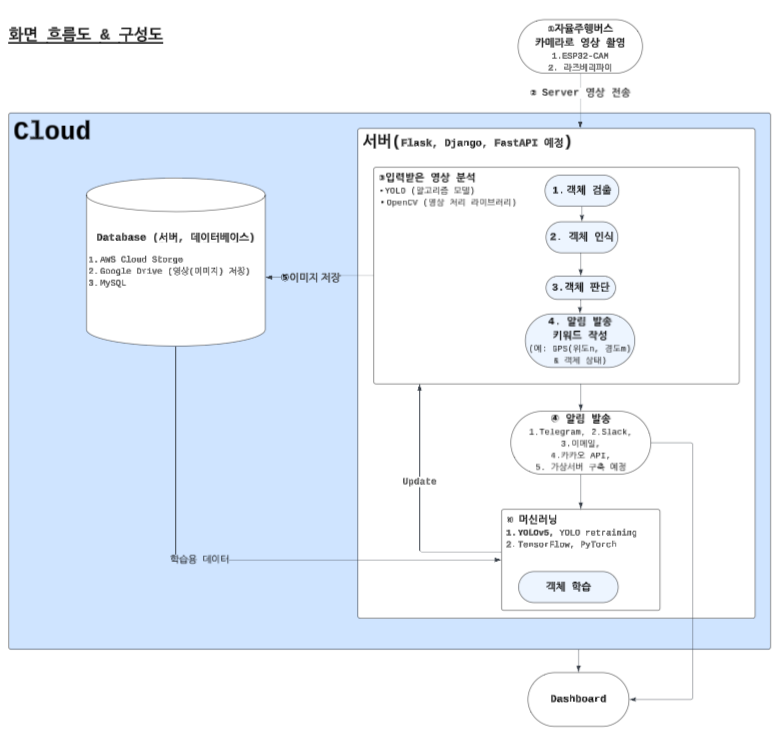
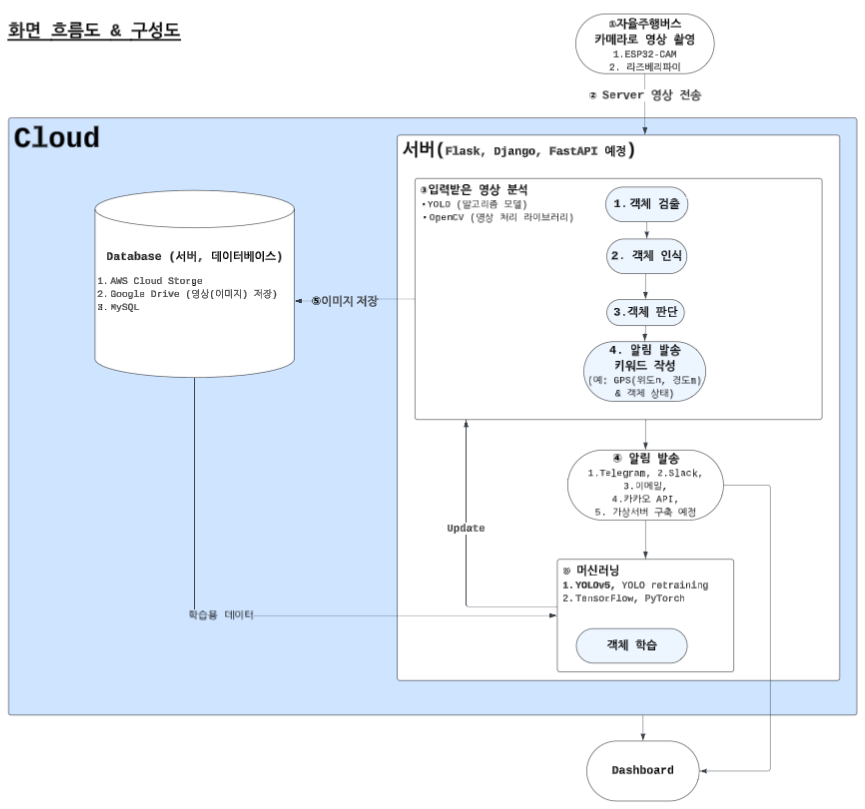
first commit

diff --git a/README.md b/README.md
@@ -48,10 +48,6 @@
 
 ----------------------------
 
-## 훈련생들에게 보여주기 위한 템플릿
-
-----------------------------
-
 # 프로젝트 기획서
 
 ## 1. 프로젝트 정의
@@ -65,20 +61,23 @@
 ## 2. 주요 내용
 - **프로젝트 기간**: 2025-08-25 ~ 2025-08-29
 - **참여 인원**: [팀원 소개] 참고
-- **데이터 사용처**: [데이터 출처]
+- **데이터 사용처**: [로드킬 데이터 정보](https://www.data.go.kr/data/15045544/fileData.do), [야생동물 활동 영상 데이터](https://www.aihub.or.kr/aihubdata/data/view.do?pageIndex=1&currMenu=115&topMenu=100&srchOptnCnd=OPTNCND001&searchKeyword=%EB%A1%9C%EB%93%9C%ED%82%AC&srchDetailCnd=DETAILCND001&srchOrder=ORDER001&srchPagePer=20&aihubDataSe=data&dataSetSn=645)
+
 
 ## 3. 일정 계획
 ![Gantt 차트]
 
 | 작업 항목                  | 시작 날짜   | 종료 날짜   | 기간(일) |
 |---------------------------|------------|------------|---------|
-| 프로젝트 정의 및 계획 수립  | 2024-01-01 | 2024-01-07 | 7       |
-| 자료 조사 및 벤치마킹       | 2024-01-08 | 2024-01-14 | 7       |
-| 아이디어 도출 및 시나리오 작성 | 2024-01-15 | 2024-01-21 | 7       |
-| 요구사항 도출 및 WBS 작성   | 2024-01-22 | 2024-01-28 | 7       |
-| Prototype 개발 및 검토     | 2024-01-29 | 2024-02-04 | 7       |
-| 최종 검토 및 발표 준비     | 2024-02-05 | 2024-02-07 | 3       |
-| 프로젝트 발표              | 2024-02-08 | 2024-02-08 | 1       |
+| 프로젝트 기획서 및 계획서 작성  | 2025-08-25 | 2025-08-29 | 5       |
+| 요구사항 정의서 작성        | 2025-08-25 | 2025-08-26 | 2       |
+| WBS 작성                  | 2025-08-25 | 2025-08-26 | 2       |
+| 데이터 수집 및 전처리        | 2025-08-25 | 2025-08-26 | 2       |
+| MAP 시각화(통계 및 분석)     | 2025-08-26 | 2025-08-28 | 3       |
+| 라즈베리파이 제어 코드 구현   | 2025-08-26 | 2025-08-28 | 3       |
+| Dashboard 설계             | 2025-08-25 | 2025-08-29 | 5       |
+| 최종 검토 및 발표 준비     | 2025-08-28 | 2025-08-29 | 2       |
+| 프로젝트 발표              | 2025-08-29 | 2025-08-29 | 1       |
 
 -----------------------------
 
@@ -105,14 +104,47 @@
 # 요구사항 정의서
 
 ## 1. 기능 요구사항
-- 상담 이력 데이터를 수집하고 분석 가능해야 함
-- 데이터 전처리 및 EDA 기능 포함
-- 대시보드와 보고서 생성
+- 사용자 시나리오 구체화
+> + 누가, 왜 알림을 받나요? (예: 보안 담당자, 매장 관리자, 아파트 입주민 등)
+> + 사용자는 알림을 받고 무엇을 하나요? (예: 즉시 CCTV 영상을 확인한다, 경찰에 신고한다, 기록을 저장한다 등)
+> + 알림의 형태는 어떤 것이 가장 효과적인가요? (예: 스마트폰 푸시 알림, 이메일, 문자 메시지, 경고음 등)
+- 대시보드와 시연 영상 생성
+
+> + 라즈베리파이 차선 인식 및 주행
+- 영상 기반 객체 인식 기능
+- 객체 미인식 시 자동 패스 처리 
+- 객체 분류 및 상태 분석 기능 (정지 상태 vs 움직임 상태 분류)
+- 움직임 상태일 경우, 다음 타이밍 기준 재판단 기능
+- 객체 인식 위치 확인 기능
+- 인식된 이미지를 DB에 저장 및 향후 학습 데이터로 활용 가능
+- 자주 인식되는 위치 식별 기능
+
+> + Kakao MAP 위에 객체 인식 GPS정보 출력
+> + 사건 발생 건수 통계 시각화
+> - 영상 수신 받은 서버는 알림 전송 가능
+> - 서버에서 일괄 사용자 알림 발송 기능
 
 ## 2. 비기능 요구사항
-- 처리 성능: 데이터 수집 및 전처리는 1시간 내로 완료
-- 확장성: 추가 데이터 소스 연동 가능
+- 핵심 용어 및 정책 정의
+> + 객체: 우리가 인식해야 할 '객체'는 정확히 무엇인가요? 사람? 자동차? 특정 동물? 아니면 모두? (리스트를 만들어보세요)
+> + 정지 상태 vs 움직임 상태: '정지'는 몇 초 이상 같은 위치에 있어야 정지인가요? '움직임'은 좌표가 몇 픽셀 이상 변해야 움직임으로 판단할 건가요?
+> + 다음 타이밍 기준 재판단: '다음 타이밍'은 몇 초 후를 의미하나요? 1초? 5초? 아니면 객체의 속도에 따라 가변적인가요?
+> + 자주 인식되는 위치: '자주'의 기준은 무엇인가요? (예: 하루에 10번 이상 동일한 객체가 1분 이상 머무는 위치)
+- 데이터 및 환경에 대한 정보
+시스템이 어떤 환경에서 어떤 데이터를 다루는지 명확히 해야 기술 스택을 정하고 개발 계획을 세울 수 있습니다.
+> - 입력 데이터: 영상은 어디서 오나요? (예: 특정 모델의 IP 카메라, 웹캠, 녹화된 영상 파일 등) 영상의 해상도나 초당 프레임(fps)은 어떻게 되나요?
+> - 실행 환경: 이 시스템은 어디서 실행되나요? 고성능 GPU 서버? 일반 클라우드 서버(AWS, GCP)? 아니면 저사양의 임베디드 장비(젯슨 나노, 라즈베리 파이)?
+> - DB 설계: 인식된 이미지와 정보를 DB에 저장한다고 하셨는데, 어떤 정보들을 저장해야 할까요? (예: 객체 ID, 인식 시간, 객체 종류, 위치 좌표(x,y), 이미지 파일 경로 등)
++ 성공 기준(Acceptance Criteria) 정의
+비기능 요구사항을 어떻게 '검증'할지 기준을 세우는 단계입니다. 이게 있어야 나중에 프로젝트가 성공했는지 객관적으로 판단할 수 있습니다.
+> - 객체 인식 시 1초 이내 처리: 이 '1초'는 어느 시점부터 어느 시점까지를 의미하나요? (예: 영상 프레임이 서버에 도착한 순간부터 객체 판별이 끝나는 순간까지)
+> - 객체 인식률: 목표로 하는 인식 정확도는 몇 %인가요? (예: 사람은 99% 이상, 자동차는 95% 이상)
+> - 비동기적 병렬 처리되어 동시 전송: 동시에 몇 개의 이벤트까지 안정적으로 처리할 수 있어야 하나요? (예: 100개의 카메라에서 동시에 이벤트가 발생해도 5초 내에 모두 알림 전송 가능)
 
+- 객체 인식 후 알림까지 5초 이내 수행
+- 객체 인식은 실시간 처리 동작
+- 객체 종류 확장 가능
+- DB 외부 접근 불가, 오직 서버만 가능 (보안성 강화)
 ---------------------------
 
 # 프로젝트 설계서
@@ -157,8 +189,11 @@
   - AWS QuickSight: 대시보드
 
 ## 2. 설계 이미지
-![클라우드 아키텍처 다이어그램](../assets/architecture_diagram.png)
+### 2-1. 시스템 아키텍처
+![시스템 아키텍처](image.png)
 
+### 2-2 시스템 흐름도
+![시스템 흐름도](image-1.png)
 -------------------------
 
 # 시각화 리포트
@@ -238,4 +273,4 @@
 ## 5. 자유로운 의견
 - 프로젝트 과정 중 느낀 점, 제안 사항, 또는 기타 의견
   - 예: 팀원들 간의 협업이 매우 원활했고, 다음 프로젝트에서도 같은 방식을 유지하고 싶음.
-  - 예: 시간 관리가 다소 아쉬웠으므로, 다음 프로젝트에서는 좀 더 구체적인 일정 관리 툴을 활용하고 싶음.....
+  - 예: 시간 관리가 다소 아쉬웠으므로, 다음 프로젝트에서는 좀 더 구체적인 일정 관리 툴을 활용하고 싶음.......
